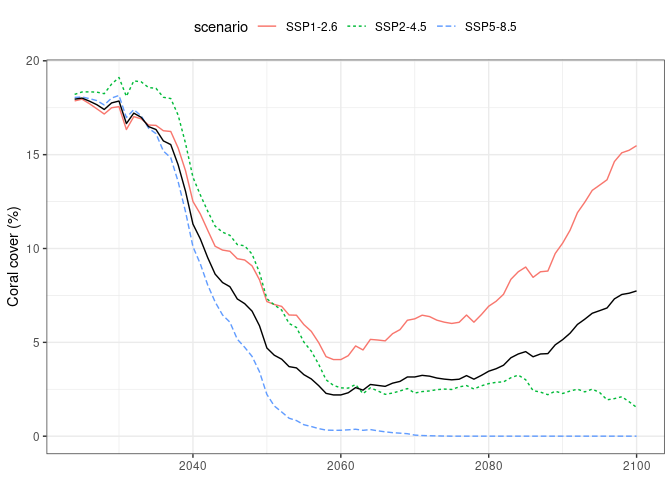
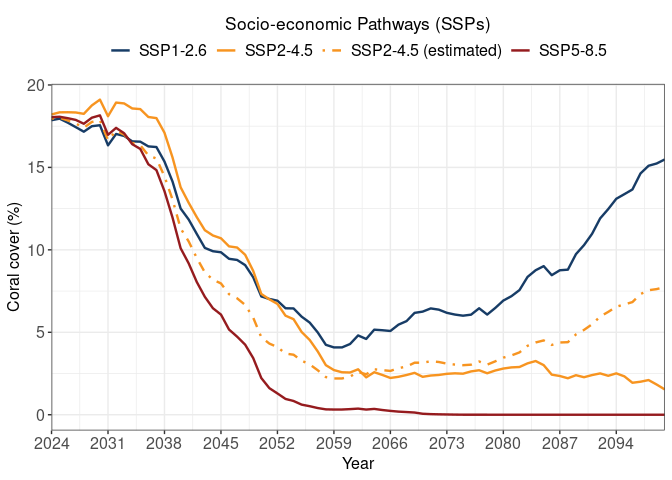
making comparison figure publication ready

diff --git a/Scripts/04_Biomass_projections_SouthPacific.md b/Scripts/04_Biomass_projections_SouthPacific.md
@@ -121,10 +121,9 @@ $struct_{complexity} = 3e^{-7} \times {coral_{cover}}^4 - 5e^{-5} \times {coral_
 
 ``` r
 #Base spreadsheet
-working_data <- "../Analysis/Excel Sheets/bias_correction_calculations_mean_coral_cover_all_climate_scenarios.xlsx"
-
-#Loading coral cover data
-coral <- read.xlsx(working_data, sheet = 1)
+coral <- file.path("../Analysis/Excel Sheets",
+                   "bias_correction_calculations_mean_coral_cover_all_climate_scenarios.xlsx") |> 
+  read.xlsx(sheet = 1)
 
 #Calculating structural complexity using equation 1 above
 coral <- coral |> 
@@ -133,7 +132,8 @@ coral <- coral |>
   #make names small case
   clean_names() |> 
   #calculate structural complexity
-  mutate(struct_complex = (3e-7*(coral_cover^4))-((5e-5)*(coral_cover^3))+(0.0022*(coral_cover^2))+1.3892)
+  mutate(struct_complex = (3e-7*(coral_cover^4))-((5e-5)*(coral_cover^3))+
+           (0.0022*(coral_cover^2))+1.3892)
 
 #Checking results
 head(coral)
@@ -162,7 +162,8 @@ FishMIP models.
 ``` r
 #Calculating fish biomass
 coral <- coral |> 
-  mutate(fish_biomass_kg_ha = (-2294.6*(struct_complex^2))+(8961.1*struct_complex)-6843.6) |> 
+  mutate(fish_biomass_kg_ha = (-2294.6*(struct_complex^2))+
+           (8961.1*struct_complex)-6843.6) |> 
   mutate(fish_biomass = fish_biomass_kg_ha*1000/10000)
 
 #Checking results
@@ -241,7 +242,9 @@ chunk.
 
 ``` r
 #Folder containing outputs from FishMIP models
-base_folder <- "/rd/gem/private/users/camillan/Extract_tcblog10_Data/Output/sumSize_annual/sizeConsidered10g_10kg/EEZsummaries/gridded_outputs/"
+base_folder <- file.path("/rd/gem/private/users/camillan/Extract_tcblog10_Data",
+                         "Output/sumSize_annual/sizeConsidered10g_10kg",
+                         "EEZsummaries/gridded_outputs")
 #Listing all relevant files to calculate biomass projections
 global_files <- list.files(base_folder, full.names = T)
 
@@ -433,9 +436,11 @@ ensemble_bio <- bio_picts |>
                    #Setting column names
                    .names = "{.col}-{.fn}")) |> 
   #Restructuring data frame to ease corrected biomass calculations
-  pivot_longer(!c(mask:year), names_to = "ensemble_type", values_to = "ensemble_bio") |> 
+  pivot_longer(!c(mask:year), names_to = "ensemble_type", 
+               values_to = "ensemble_bio") |> 
   #Separating bias type from statistic calculated
-  separate_wider_delim(cols = "ensemble_type", delim = "-", names = c("ensemble_type", "stat")) |> 
+  separate_wider_delim(cols = "ensemble_type", delim = "-", 
+                       names = c("ensemble_type", "stat")) |> 
   pivot_wider(names_from = ensemble_type, values_from = ensemble_bio)
 ```
 
@@ -549,23 +554,30 @@ the three scenarios.
 
 ``` r
 #Visualising data
-p1 <- coral |> 
+p1 <- coral |>
   #Selecting three relevant scenarios
   filter(str_detect(scenario, "2.6|4.5|8.5")) |> 
   #Plot coral cover for all scenarios
-  ggplot(aes(x = year, y = coral_cover, colour = scenario, linetype = scenario))+
-  geom_line()+
+  ggplot(aes(x = year, y = coral_cover, colour = scenario))+
+  geom_line(linewidth = 1)+
+  scale_color_manual(labels = c("SSP1-2.6", "SSP2-4.5", "SSP5-8.5"),
+                     values = c("#173C66", "#F79420", "#951B1E"))+
   theme_bw()+
-  labs(y = "Coral cover (%)")+
-  theme(axis.title.x = element_blank(), 
-        legend.position = "top", legend.direction = "horizontal")
+  scale_x_continuous(expand = c(0, 0), breaks = seq(2024, 2100, 7))+
+  labs(y = "Coral cover (%)", x = "Year", 
+       color = "Socio-economic Pathways (SSPs)")+
+  theme(legend.position = "top", legend.title.position = "top", 
+        legend.text = element_text(size = 13), legend.direction = "horizontal", 
+        legend.title = element_text(hjust = 0.5, size = 13),
+        axis.text = element_text(size = 13), 
+        axis.title = element_text(size = 13))
 p1
 ```
 
 ![](Figures/04_Biomass_projections_SouthPacific_files/figure-gfm/unnamed-chunk-13-1.png)<!-- -->
 
 We will now calculate the mean biomass estimated under of scenarios
-`SSP1-2.6` and `SSP5-8.5`. We will add this to our figure as a black
+`SSP1-2.6` and `SSP5-8.5`. We will add this to our figure as a dotted
 line to check how well it represents the moderate emissions data.
 
 ``` r
@@ -580,16 +592,41 @@ mean_26_85 <- coral |>
   clean_names() |> 
   rowwise() |> 
   mutate(mean_scenarios = mean(c(ssp1_2_6, ssp5_8_5))) |> 
-  ungroup()
+  ungroup() |> 
+  select(year, mean_scenarios) |> 
+  rename(coral_cover = mean_scenarios) |> 
+  mutate(scenario = "SSP2-4.5_recons", .after = year) |> 
+  mutate(lt = "dotdash")
 
-p1+
-  geom_line(inherit.aes = F, data = mean_26_85, aes(x = year, y = mean_scenarios))
+
+coral |>
+  #Selecting three relevant scenarios
+  filter(str_detect(scenario, "2.6|4.5|8.5")) |> 
+  select(year, scenario, coral_cover) |> 
+  mutate(lt = "solid") |> 
+  bind_rows(mean_26_85) |> 
+  ggplot(aes(x = year, y = coral_cover, colour = scenario, linetype = lt))+
+  geom_line(linewidth = 0.85)+
+  scale_color_manual(labels = c("SSP1-2.6", "SSP2-4.5", "SSP2-4.5 (estimated)", 
+                                "SSP5-8.5"),
+                     values = c("#173C66", "#F79420", "#F79420", "#951B1E"))+
+  scale_linetype_identity()+
+  guides(color = guide_legend(override.aes = list(linetype = c(1, 1, 4, 1))))+
+  theme_bw()+
+  scale_x_continuous(expand = c(0, 0), breaks = seq(2024, 2100, 7))+
+  labs(y = "Coral cover (%)", x = "Year", 
+       color = "Socio-economic Pathways (SSPs)")+
+  theme(legend.position = "top", legend.title.position = "top", 
+        legend.text = element_text(size = 12), legend.direction = "horizontal", 
+        legend.title = element_text(hjust = 0.5, size = 13),
+        axis.text = element_text(size = 12), 
+        axis.title = element_text(size = 12))
 ```
 
 ![](Figures/04_Biomass_projections_SouthPacific_files/figure-gfm/unnamed-chunk-14-1.png)<!-- -->
 
-The averaged coral cover (black line) is closer to coral cover under
-scenario `SSP2-4.5` (green dashed line) than either of the two
+The averaged coral cover (yellow dotted line) is closer to coral cover
+under scenario `SSP2-4.5` (yellow line) than either of the two
 scenarios. This approach is simple, but note that before 2060, it tends
 to underestimate coral cover. However, after 2060 coral cover is
 overestimated. We expect similar biases when calculating fish biomass
@@ -635,7 +672,8 @@ biomass_ssp245 |>
   #We will only plot the median values
   select(mask, year, ends_with("median")) |> 
   #Reformat data to make plotting easier
-  pivot_longer(ends_with("median"), names_to = "scenario", values_to = "biomass") |> 
+  pivot_longer(ends_with("median"), names_to = "scenario", 
+               values_to = "biomass") |> 
   #Plotting
   ggplot(aes(x = year, y = biomass, colour = scenario, linetype = scenario))+
   geom_line()+
